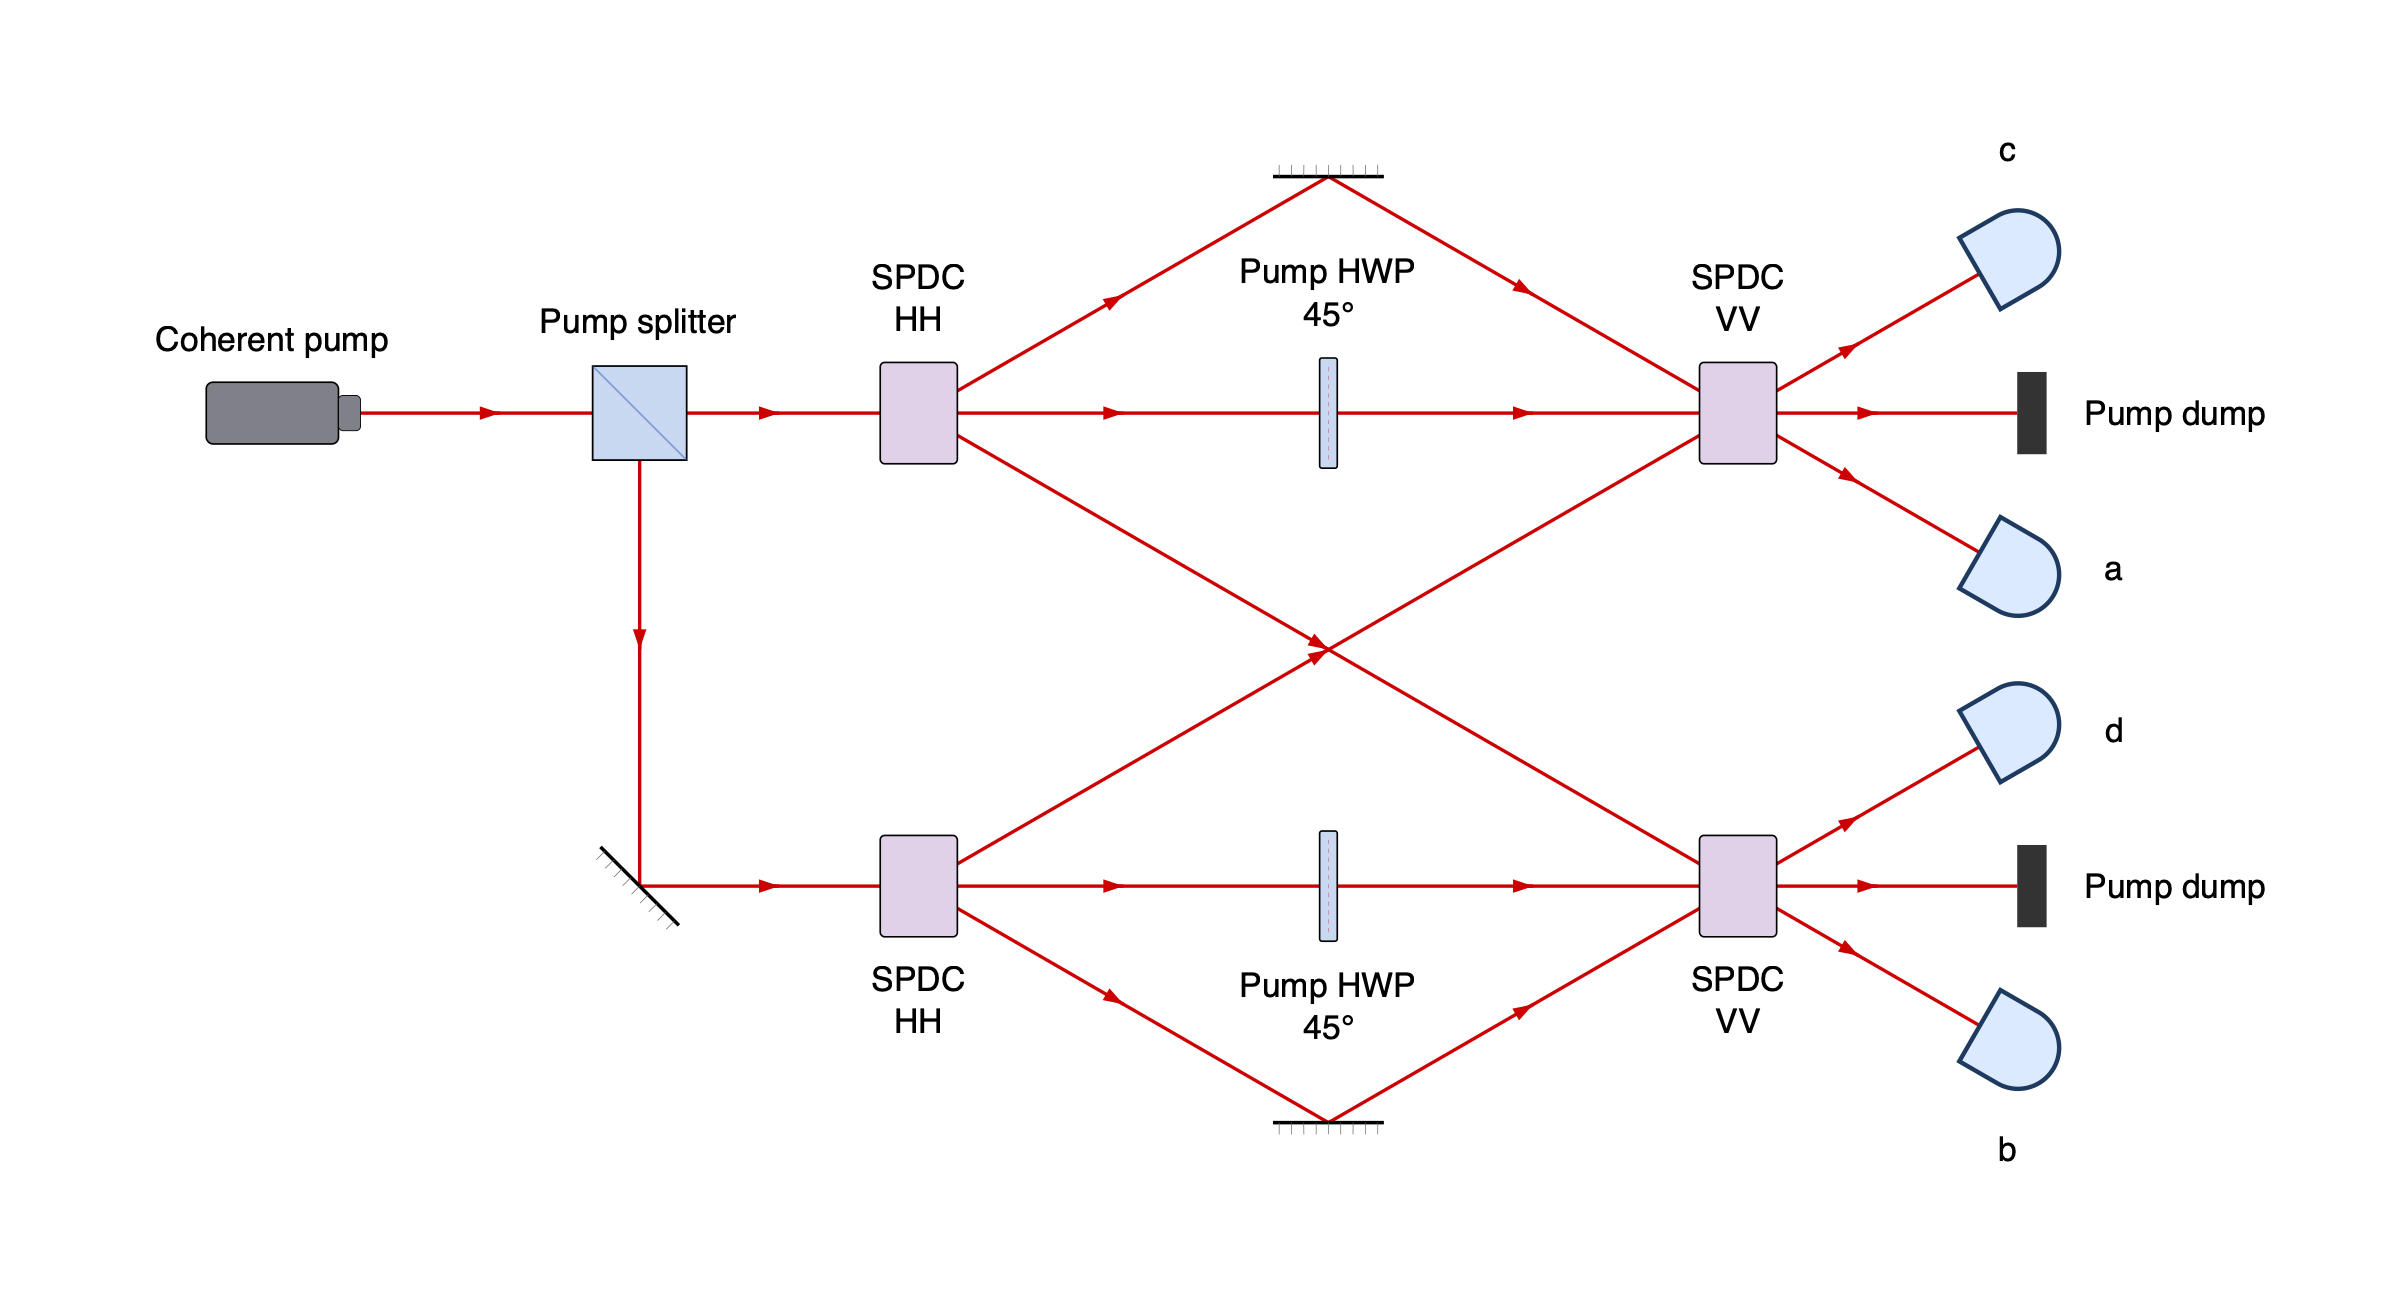
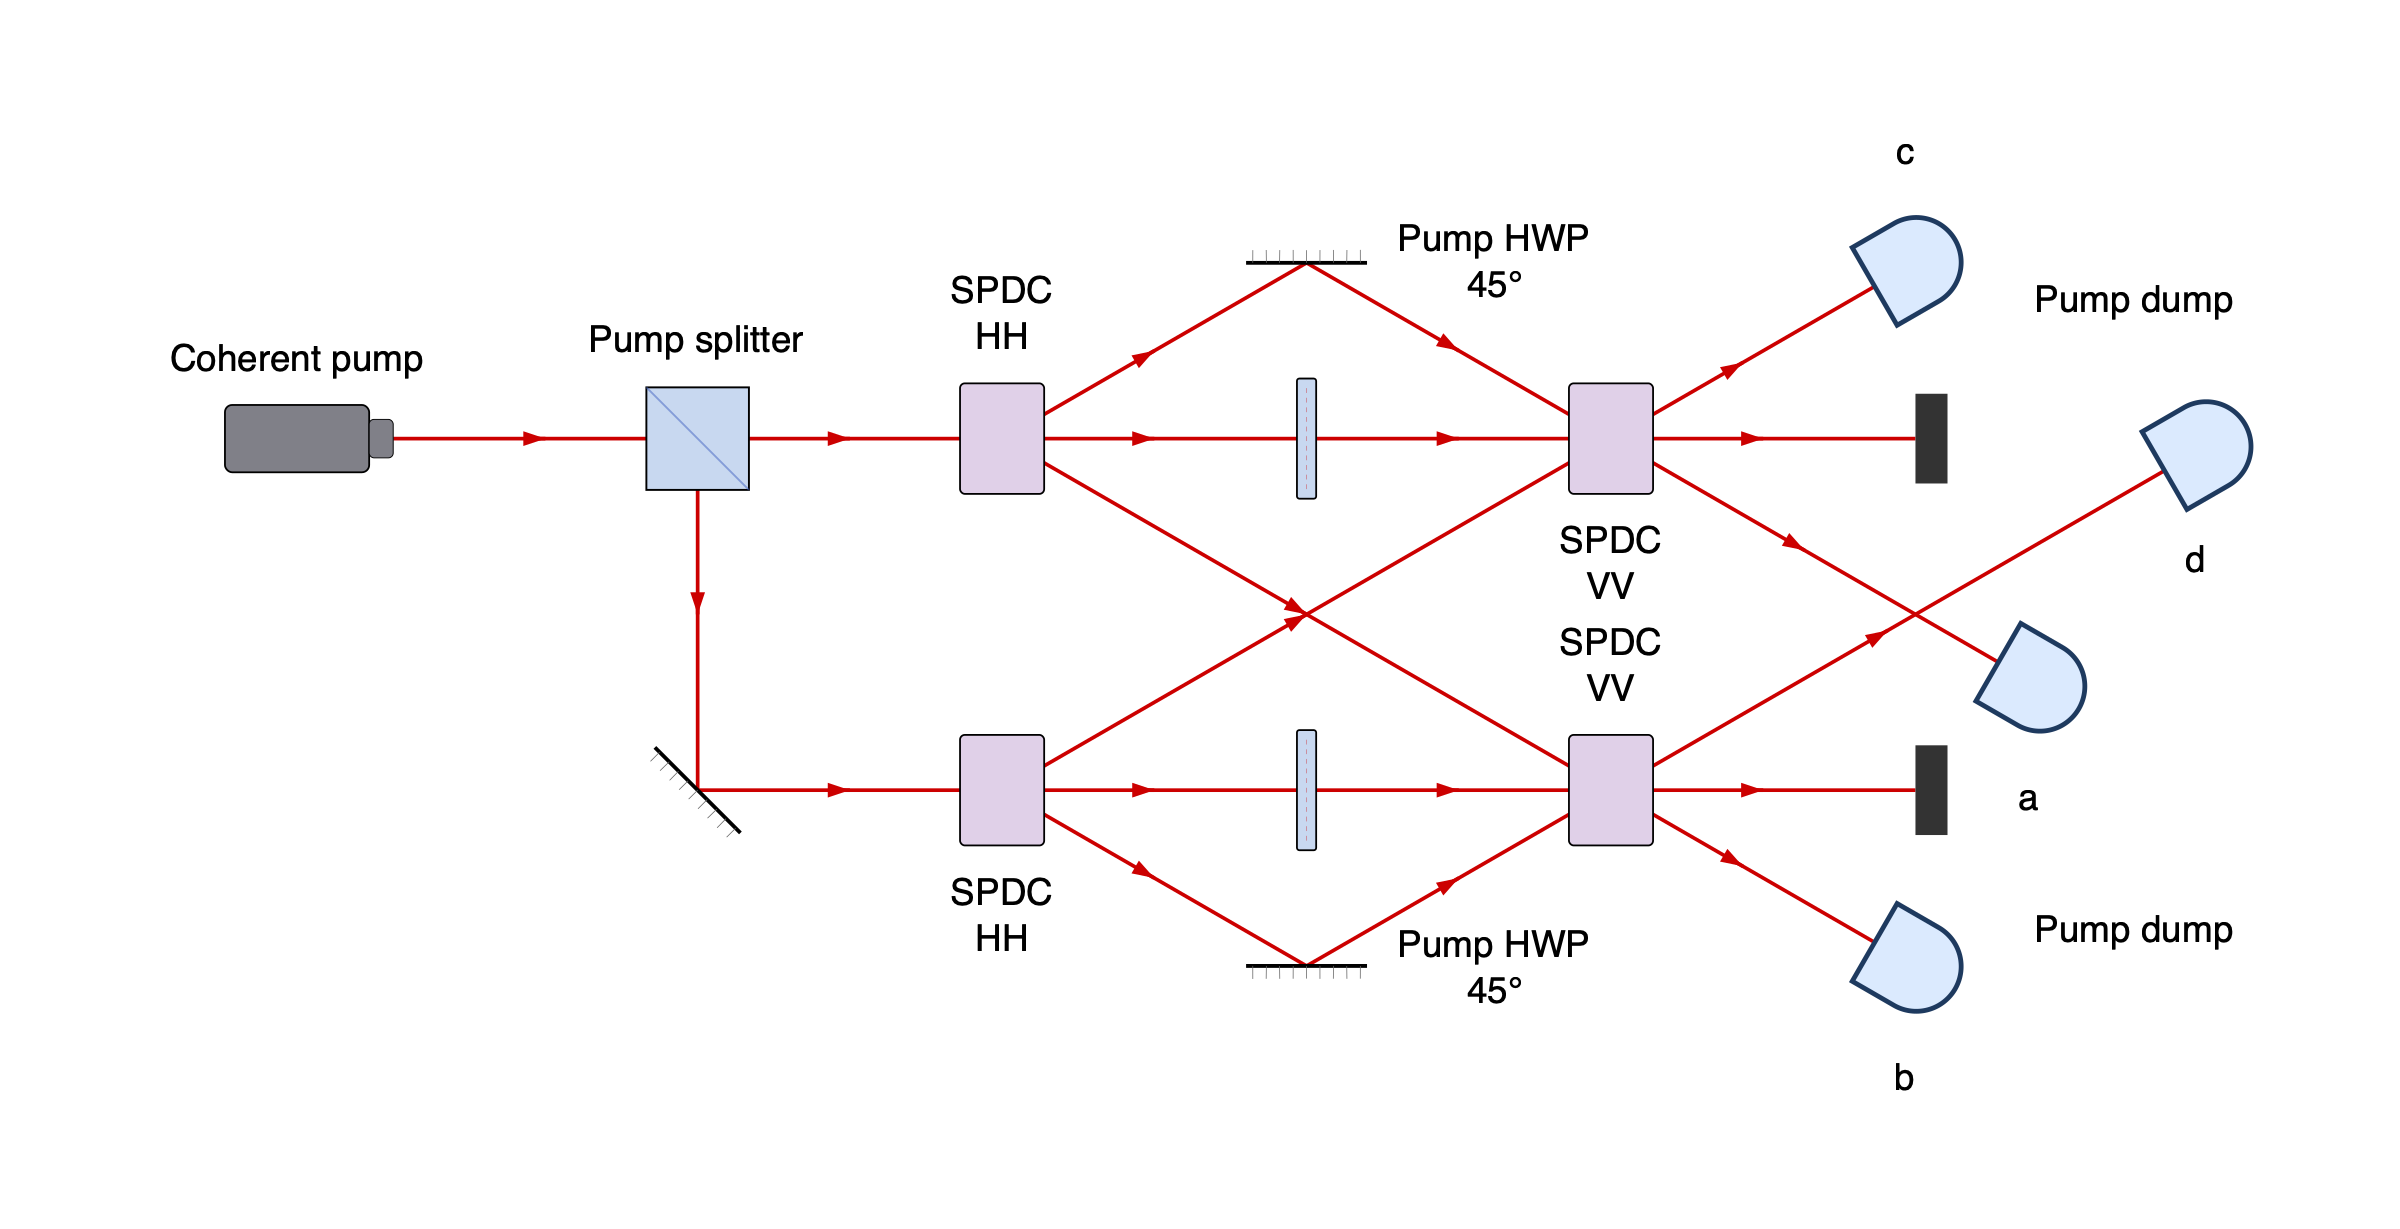
Resolve beam obstructions with automatic spacing and backtracking

diff --git a/src/beampath/layout.py b/src/beampath/layout.py
@@ -249,8 +249,17 @@ def _labels(placements: Mapping[str, PlacedOptic], segments: list[Segment], styl
         order = [preferred] + [side for side in ("bottom", "top", "right", "left") if side != preferred]
         corners = ("bottom_right", "bottom_left", "top_right", "top_left")
         order += [side for side in corners if preferred in side] + [side for side in corners if preferred not in side]
-        for side in order:
-            cx, cy = candidates[side]
+        # Preserve immediate placements first, then search a bounded set of
+        # outward rings. Tight branch layouts can surround all eight neighbors.
+        positions = []
+        for ring in range(9):
+            gap = ring * style.font_size * 1.25
+            for side in order:
+                cx, cy = candidates[side]
+                cx += gap * (("right" in side) - ("left" in side))
+                cy += gap * (("bottom" in side) - ("top" in side))
+                positions.append((cx, cy))
+        for cx, cy in positions:
             box = (cx - width / 2, cy - height / 2, cx + width / 2, cy + height / 2)
             if any(overlap(box, p.bounds, 3) for p in placements.values()):
                 continue
@@ -300,6 +309,9 @@ def _root_origins(setup):
             raise LayoutError(f"{root.optic}: incompatible placement constraints on initial paths")
         origins[root.optic] = root.origin
     return origins
+
+
+_BEAM_SEARCH_LIMIT = 1000
 
 
 def _solve_beams(nodes, connections, anchors, style, blocks=None):
@@ -376,49 +388,97 @@ def _solve_beams(nodes, connections, anchors, style, blocks=None):
             add_constraint((lengths[a.id] == lengths[b.id]) | kiwi.strength.medium)
     solver.updateVariables()
 
-    # Branches can bring nonadjacent optics together even when every connected
-    # pair has enough clearance. Separate colliding artwork by extending the
-    # available beam gaps, keeping all pins, distances, and headings required.
-    # Each accepted constraint permanently separates one pair, so this loop
-    # needs at most one refinement per pair of optics.
-    while True:
-        placements = {}
+    def placements_now():
+        result = {}
         for ident, node in nodes.items():
             position = clean(xs[ident].value()), clean(ys[ident].value())
-            placements[ident] = PlacedOptic(
+            result[ident] = PlacedOptic(
                 node, position, translated(footprints[ident], position), poses.get(ident),
             )
+        return result
+
+    def conflict(placements):
         items = list(placements.values())
-        collision = next(((a, b) for index, a in enumerate(items) for b in items[index + 1:]
-                          if overlap(a.bounds, b.bounds)), None)
+        for index, a in enumerate(items):
+            for b in items[index + 1:]:
+                if not overlap(a.bounds, b.bounds):
+                    continue
+                alternatives = []
+                for axis, coordinates in enumerate((xs, ys)):
+                    for first, second in ((a, b), (b, a)):
+                        separation = (footprints[first.id][axis + 2]
+                                      - footprints[second.id][axis] + style.clearance)
+                        alternatives.append(coordinates[second.id] - coordinates[first.id]
+                                            >= separation)
+                return f"{a.id} and {b.id}: component artwork overlaps", alternatives
+        for edge in connections:
+            source, target = placements[edge.source], placements[edge.target]
+            start, end = source.port_position(edge.output), target.port_position(edge.input)
+            direction = unit(source.port_direction(edge.output))
+            for obstacle in items:
+                if obstacle.id in {edge.source, edge.target} or not segment_intersects(
+                        start, end, obstacle.bounds):
+                    continue
+                alternatives = []
+                # Separating-axis theorem for a finite segment and an axis-aligned
+                # box: box axes plus the segment normal. Fixed headings keep all
+                # projected endpoints linear, including displaced optical ports.
+                offset = rotate(source.instance.port(edge.output).position,
+                                source.instance.heading)
+                for axis in ((1, 0), (0, 1), (-direction[1], direction[0])):
+                    beam_start = ((xs[source.id] + offset[0]) * axis[0]
+                                  + (ys[source.id] + offset[1]) * axis[1])
+                    advance = sum(d * a for d, a in zip(direction, axis))
+                    if abs(advance) < EPSILON:
+                        advance = 0.0
+                    beam_end = beam_start + lengths[edge.id] * advance
+                    low, high = ((beam_start, beam_end) if advance >= 0
+                                 else (beam_end, beam_start))
+                    origin = xs[obstacle.id] * axis[0] + ys[obstacle.id] * axis[1]
+                    lo, hi = _project(footprints[obstacle.id], (0, 0), axis)
+                    alternatives.extend((origin + lo >= high + style.clearance,
+                                         low >= origin + hi + style.clearance))
+                return (f"{edge.id}: beam crosses unrelated optic {obstacle.id}",
+                        alternatives)
+        return None
+
+    # A greedy separation can block a later collision. Explore alternatives with
+    # backtracking; each branch permanently separates the selected conflict.
+    # Rebuild every candidate solver because rejected Kiwi constraints can leave
+    # its tableau changed. Stored solvers share variables, so update on each pop.
+    pending = [((), solver)]
+    attempts = 0
+    first_error = None
+    while pending:
+        accepted, current = pending.pop()
+        current.updateVariables()
+        placements = placements_now()
+        collision = conflict(placements)
         if collision is None:
             return placements
-        a, b = collision
+        context, alternatives = collision
+        first_error = first_error or context
         candidates = []
-        for axis, coordinates in enumerate((xs, ys)):
-            for first, second in ((a, b), (b, a)):
-                gap = first.bounds[axis + 2] - second.bounds[axis] + style.clearance
-                separation = (footprints[first.id][axis + 2]
-                              - footprints[second.id][axis] + style.clearance)
-                constraint = coordinates[second.id] - coordinates[first.id] >= separation
-                candidates.append((gap, constraint))
-        for _, constraint in sorted(candidates, key=lambda candidate: candidate[0]):
+        for order, alternative in enumerate(alternatives):
+            if attempts >= _BEAM_SEARCH_LIMIT:
+                raise LayoutError(f"{context}: automatic layout search budget exhausted "
+                                  f"({_BEAM_SEARCH_LIMIT} candidate states)")
+            attempts += 1
+            trial = kiwi.Solver()
+            branch = (*accepted, alternative)
             try:
-                add_constraint(constraint)
+                for constraint in (*constraints, *branch):
+                    trial.addConstraint(constraint)
             except kiwi.UnsatisfiableConstraint:
-                # A rejected inequality can leave Kiwi's internal tableau
-                # changed. Restore accepted constraints before trying another
-                # direction, otherwise a feasible alternative can also fail.
-                solver = kiwi.Solver()
-                for accepted in constraints:
-                    solver.addConstraint(accepted)
                 continue
-            solver.updateVariables()
-            break
-        else:
-            # The caller reports the existing artwork-overlap error when hard
-            # placement constraints leave no room to separate this pair.
-            return placements
+            trial.updateVariables()
+            score = round(sum(length.value() for length in lengths.values()), 7)
+            candidates.append((score, order, branch, trial))
+        # Stack order visits the smallest total length first, with stable axis
+        # order breaking ties. Existing soft preferences still apply per solve.
+        for _, _, branch, trial in sorted(candidates, key=lambda item: item[:2], reverse=True):
+            pending.append((branch, trial))
+    raise LayoutError(f"{first_error}: no feasible automatic spacing with required constraints")
 
 
 def _finish_free_space(setup, placements, style):

diff --git a/tests/test_spdc.py b/tests/test_spdc.py
@@ -171,7 +171,17 @@ def test_spdc_artwork_is_only_the_crystal_body_with_user_label(label, expected):
 def test_noncollinear_example_preserves_full_opening_angle_in_layout():
 
     setup = runpy.run_module("beampath.examples.spdc")["setup"]
+    assert all(edge.distance is None for edge in setup.setup.connections)
     layout = setup.layout()
+    assert len(layout.labels) == 5
+    root = ET.fromstring(setup.to_svg())
+    assert len(list(root.iter(tag("text")))) == 5
+    repeated = setup.layout()
+    for ident, placed in layout.placements.items():
+        assert repeated.placements[ident].position == pytest.approx(placed.position, abs=1e-7, rel=0)
+    for first, second in zip(layout.labels, repeated.labels):
+        assert (first.optic, first.text) == (second.optic, second.text)
+        assert second.position == pytest.approx(first.position, abs=1e-7, rel=0)
     source = layout.placements[setup.end.id]
     assert source.port_direction("pump") == 0
     assert source.port_direction("signal") == 350
@@ -180,3 +190,40 @@ def test_noncollinear_example_preserves_full_opening_angle_in_layout():
         segment, = [s for s in layout.segments if s.source == source.id and s.output == name]
         dx, dy = (segment.end[i] - segment.start[i] for i in (0, 1))
         assert math.degrees(math.atan2(dy, dx)) == pytest.approx(turn)
+
+
+@pytest.mark.parametrize("direction", [0, 90, 180, 270, 31.7])
+@pytest.mark.parametrize("fixed", [None, "distance", "pin"])
+def test_spdc_spacing_clears_beams_and_preserves_constraints(direction, fixed):
+    from beampath import fiber_coupler
+    from beampath.geometry import rotate
+    from beampath.layout import segment_intersects
+
+    source = beam(direction) >> spdc()
+    hints = {"distance": 800} if fixed == "distance" else (
+        {"at": rotate((800, 0), direction)} if fixed == "pin" else {})
+    pump = source.out("pump").append(iris(""), **hints).end
+    source.out("signal") >> fiber_coupler("")
+    source.out("idler") >> fiber_coupler("")
+    before = source.setup.optics, source.setup.connections
+    result = source.layout()
+    for segment in result.segments:
+        for optic in result.placements.values():
+            if optic.id not in {segment.source, segment.target}:
+                assert not segment_intersects(segment.start, segment.end, optic.bounds)
+    if fixed:
+        assert result.placements[pump.id].position == pytest.approx(rotate((800, 0), direction))
+    repeated = source.layout()
+    for ident, placed in result.placements.items():
+        assert repeated.placements[ident].position == pytest.approx(placed.position, abs=1e-7, rel=0)
+    assert (source.setup.optics, source.setup.connections) == before
+
+
+def test_fixed_spdc_beam_obstruction_is_reported_as_infeasible():
+    from beampath import fiber_coupler
+    source = beam() >> spdc()
+    source.out("pump").append(iris(""), distance=190)
+    source.out("signal").append(fiber_coupler(""), distance=600)
+    source.out("idler").append(fiber_coupler(""), distance=600)
+    with pytest.raises(LayoutError, match="beam crosses unrelated optic.*no feasible"):
+        source.layout()

diff --git a/tests/test_layout.py b/tests/test_layout.py
@@ -325,3 +325,36 @@ def test_style_scales_spacing_and_clearance():
     assert result.segments[0].length == pytest.approx(250)
     with pytest.raises(LayoutError, match="positive"):
         Style(pitch=-1)
+
+
+def test_spacing_backtracks_when_shortest_separation_blocks_later_collision():
+    # Moving B right is the shortest A/B separation (its total run is pinned).
+    # It puts B against C, with its downstream pin preventing another move.
+    # The search must undo that choice and move A instead.
+    box = ComponentSpec(ComponentDefinition(
+        "box", "", Artwork((0, 0), (-40, -30, 40, 30),
+                            svg='<svg xmlns="http://www.w3.org/2000/svg"/>'),
+        lambda p: Geometry((Port("in", "input"), Port("out", "output"),
+                            Port("unused", "output", 90, draw_open=False))),
+    ))
+    drawing, paths = parallel_detector_inputs(0)
+    a = (paths[0] >> box).end
+    b_path = paths[1] >> box
+    b = b_path.end
+    b_path.out("out").append(box, at=(550, 40))
+    drawing.beam(origin=(300, 80)) >> box
+    result = drawing.layout()
+    assert result.placements[a.id].position == pytest.approx((290, 0))
+    assert result.placements[b.id].position == pytest.approx((190, 40))
+    assert result == drawing.layout()
+
+
+def test_spacing_search_budget_is_distinct_from_infeasibility(monkeypatch):
+    import importlib
+    layout_module = importlib.import_module("beampath.layout")
+    drawing, paths = parallel_detector_inputs(0)
+    for path in paths:
+        path >> detector("")
+    monkeypatch.setattr(layout_module, "_BEAM_SEARCH_LIMIT", 0)
+    with pytest.raises(LayoutError, match="automatic layout search budget exhausted"):
+        drawing.layout()

diff --git a/examples/spdc.py b/examples/spdc.py
@@ -3,7 +3,6 @@
 from beampath.components import *
 
 setup = laser("Pump input") >> spdc()
-# Small opening angles need longer paths to separate downstream optics.
-setup.out("pump").append(iris("Transmitted pump"), distance=800)
-setup.out("signal").append(fiber_coupler("Signal"), distance=500)
-setup.out("idler").append(fiber_coupler("Idler"), distance=500)
+setup.out("pump") >> iris("Transmitted pump")
+setup.out("signal") >> fiber_coupler("Signal")
+setup.out("idler") >> fiber_coupler("Idler")

diff --git a/docs/api.md b/docs/api.md
@@ -25,11 +25,17 @@ Most diagrams can start from the [examples](gallery.md). Import core tools from
   between ports; it cannot be used on a first component or a fiber connection.
   `at=(x, y)` pins a component reference point. The beam origin places its first
   optic. Pins and distances are required constraints; incompatible ones fail.
-  Automatic spacing can stretch free-space paths to separate overlapping optics.
+  Automatic spacing can stretch free-space paths to separate overlapping optics
+  and clear beams crossing unrelated optics within a free-space section. The
+  deterministic search tries up to 1,000 candidate states; budget exhaustion is
+  reported separately from infeasible constraints. Explicit pins and distances
+  are never relaxed.
   Use `rows()` for explicit stage boundaries; it preserves local pins and headings.
 - **Drawing:** crossings do not imply connections. Open ports have stubs, replaced
   when connected.
-  Labels do not expand component spacing inside a stage; allow room when pinning.
+  Labels do not expand component spacing inside a stage. If adjacent label
+  positions are obstructed, placement tries eight additional outward rings;
+  allow room when pinning.
 - **Fiber routing:** prefer fewer crossings, touches, and overlapping runs before
   minimizing bends and length. Routes may take longer detours to avoid contacts;
   artwork and labels remain clear. Centering and corner rounding also consider

diff --git a/docs/gallery.md b/docs/gallery.md
@@ -306,10 +306,9 @@ A generic SPDC crystal with pump, signal, and idler branches.
 from beampath.components import *
 
 setup = laser("Pump input") >> spdc()
-# Small opening angles need longer paths to separate downstream optics.
-setup.out("pump").append(iris("Transmitted pump"), distance=800)
-setup.out("signal").append(fiber_coupler("Signal"), distance=500)
-setup.out("idler").append(fiber_coupler("Idler"), distance=500)
+setup.out("pump") >> iris("Transmitted pump")
+setup.out("signal") >> fiber_coupler("Signal")
+setup.out("idler") >> fiber_coupler("Idler")
 ```
 
 [Source](../examples/spdc.py)
